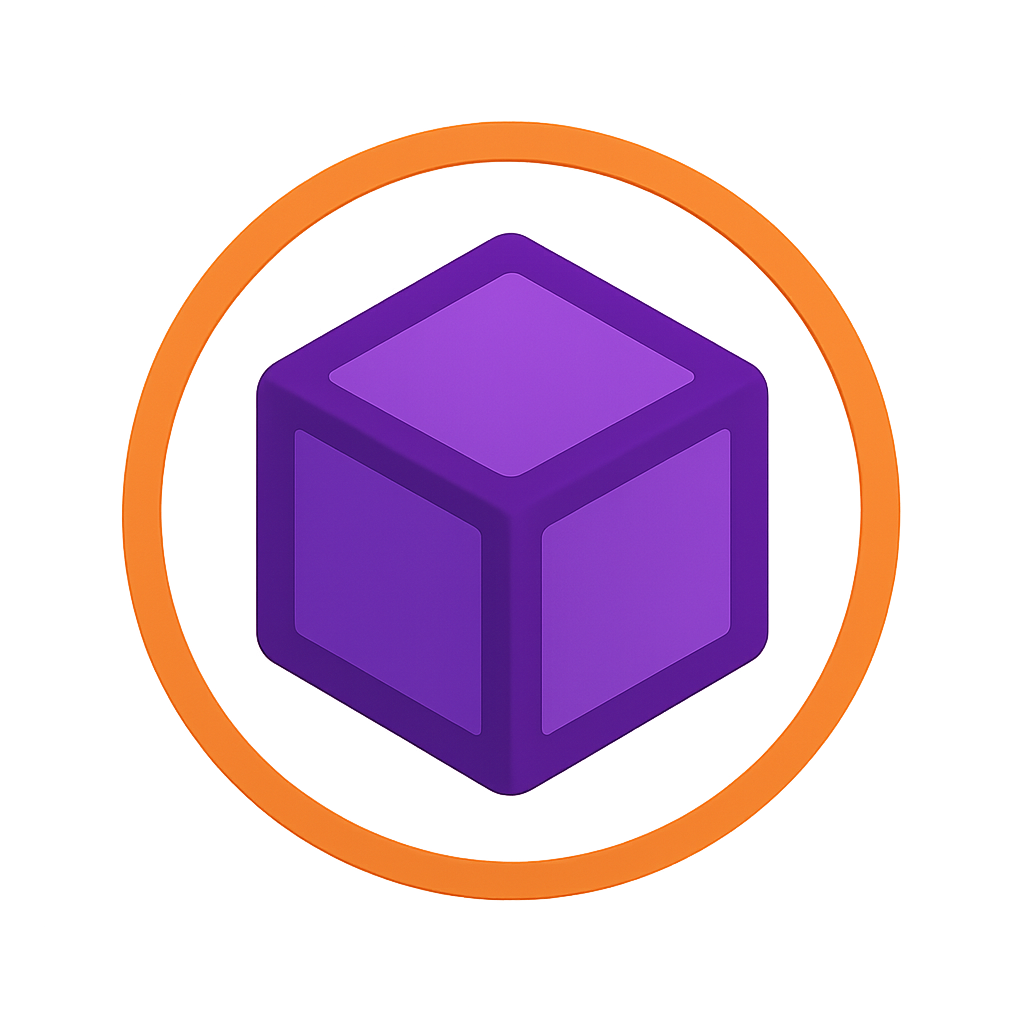
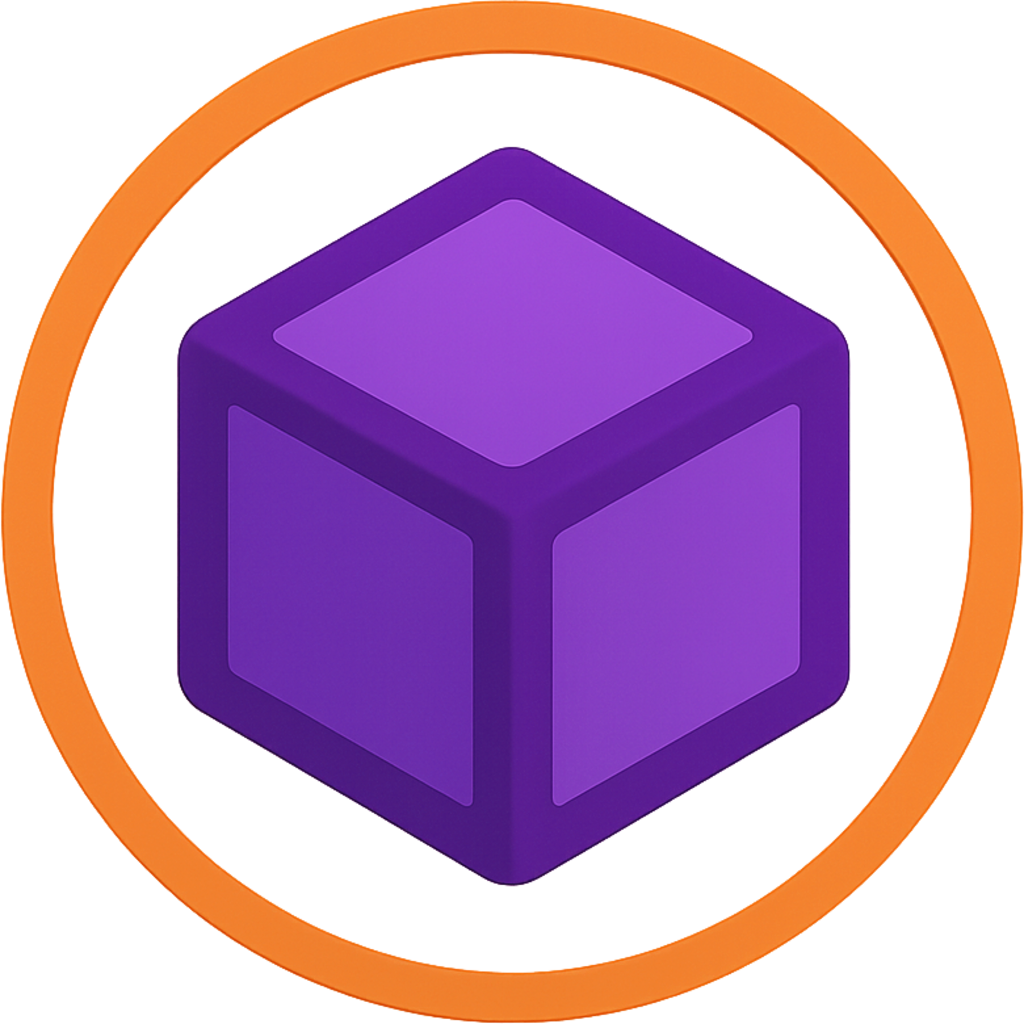
Improve loading speeds by compressing Images

diff --git a/components/theme-toggle.tsx b/components/theme-toggle.tsx
@@ -17,24 +17,24 @@ export function ThemeToggle() {
 
   if (!mounted) {
     return (
-      <Button variant="ghost" size="icon" className="relative overflow-hidden">
-        <span className="sr-only">Toggle theme</span>
-      </Button>
+        <Button variant="ghost" size="icon" className="relative overflow-hidden">
+          <span className="sr-only">Toggle theme</span>
+        </Button>
     )
   }
 
   return (
-    <Button
-      variant="ghost"
-      size="icon"
-      onClick={() => setTheme(theme === "light" ? "dark" : "light")}
-      className="relative overflow-hidden group"
-      aria-label={`Switch to ${theme === "light" ? "dark" : "light"} mode`}
-    >
-      <Sun className="h-[1.2rem] w-[1.2rem] rotate-0 scale-100 transition-all dark:-rotate-90 dark:scale-0 duration-500" />
-      <Moon className="absolute h-[1.2rem] w-[1.2rem] rotate-90 scale-0 transition-all dark:rotate-0 dark:scale-100 duration-500" />
-      <span className="sr-only">Toggle theme</span>
-      <div className="absolute inset-0 rounded-md bg-primary/0 group-hover:bg-primary/10 transition-colors duration-300"></div>
-    </Button>
+      <Button
+          variant="ghost"
+          size="icon"
+          onClick={() => setTheme(theme === "light" ? "dark" : "light")}
+          className="relative overflow-hidden group"
+          aria-label={`Switch to ${theme === "light" ? "dark" : "light"} mode`}
+      >
+        <Sun className="h-[1.2rem] w-[1.2rem] rotate-0 scale-100 transition-all dark:-rotate-90 dark:scale-0 duration-500" />
+        <Moon className="absolute h-[1.2rem] w-[1.2rem] rotate-90 scale-0 transition-all dark:rotate-0 dark:scale-100 duration-500" />
+        <span className="sr-only">Toggle theme</span>
+        <div className="absolute inset-0 rounded-md bg-primary/0 group-hover:bg-primary/10 transition-colors duration-300"></div>
+      </Button>
   )
 }

diff --git a/app/wiki/refinedobsidian/page.tsx b/app/wiki/refinedobsidian/page.tsx
@@ -498,7 +498,7 @@ export default function ROWikiPage() {
                             <div
                                 className="overflow-hidden rounded-lg border border-border/50 group ro-hover-glow theme-transition">
                                 <Image
-                                    src="/assets/refinedobsidian/gallery-1.png"
+                                    src="/assets/refinedobsidian/gallery-1.jpg"
                                     alt="RefinedObsidian Overview"
                                     width={500}
                                     height={300}
@@ -508,7 +508,7 @@ export default function ROWikiPage() {
                             <div
                                 className="overflow-hidden rounded-lg border border-border/50 group ro-hover-glow theme-transition">
                                 <Image
-                                    src="/assets/refinedobsidian/gallery-2.png"
+                                    src="/assets/refinedobsidian/gallery-2.jpg"
                                     alt="Block Palette"
                                     width={500}
                                     height={300}
@@ -518,7 +518,7 @@ export default function ROWikiPage() {
                             <div
                                 className="overflow-hidden rounded-lg border border-border/50 group ro-hover-glow theme-transition">
                                 <Image
-                                    src="/assets/refinedobsidian/gallery-3.png"
+                                    src="/assets/refinedobsidian/gallery-3.jpg"
                                     alt="Building"
                                     width={500}
                                     height={300}

diff --git a/app/wiki/refinedobsidian/ro-community-credits.tsx b/app/wiki/refinedobsidian/ro-community-credits.tsx
@@ -4,7 +4,7 @@ import {LINKS} from "@/app/links"
 export function CommunityCredits() {
   return (
     <div className="credits-badge rounded-lg p-4 flex flex-col items-center text-center space-y-2">
-      <div className="flex items-center justify-center w-12 h-12 rounded-full bg-primary/20 mb-1">
+      <div className="flex items-center justify-center w-12 h-12 rounded-full bg-primary mb-1">
         <Users className="h-6 w-6 text-primary" />
       </div>
       <h3 className="text-sm font-medium">This Mod is made by</h3>

diff --git a/components/ui/sidebar.tsx b/components/ui/sidebar.tsx
@@ -113,7 +113,7 @@ const SidebarProvider = React.forwardRef<
     }, [toggleSidebar])
 
     // We add a state so that we can do data-state="expanded" or "collapsed".
-    // This makes it easier to style the sidebar with Tailwind classes.
+    // This makes it easier to styles the sidebar with Tailwind classes.
     const state = open ? "expanded" : "collapsed"
 
     const contextValue = React.useMemo<SidebarContext>(

diff --git a/styles/global.css b/styles/global.css
@@ -13,7 +13,7 @@ body {
 }
 
 @layer base {
-  :ro-theme {
+  .ro-theme {
     --background: 0 0% 100%;
     --foreground: 0 0% 3.9%;
     --card: 0 0% 100%;
